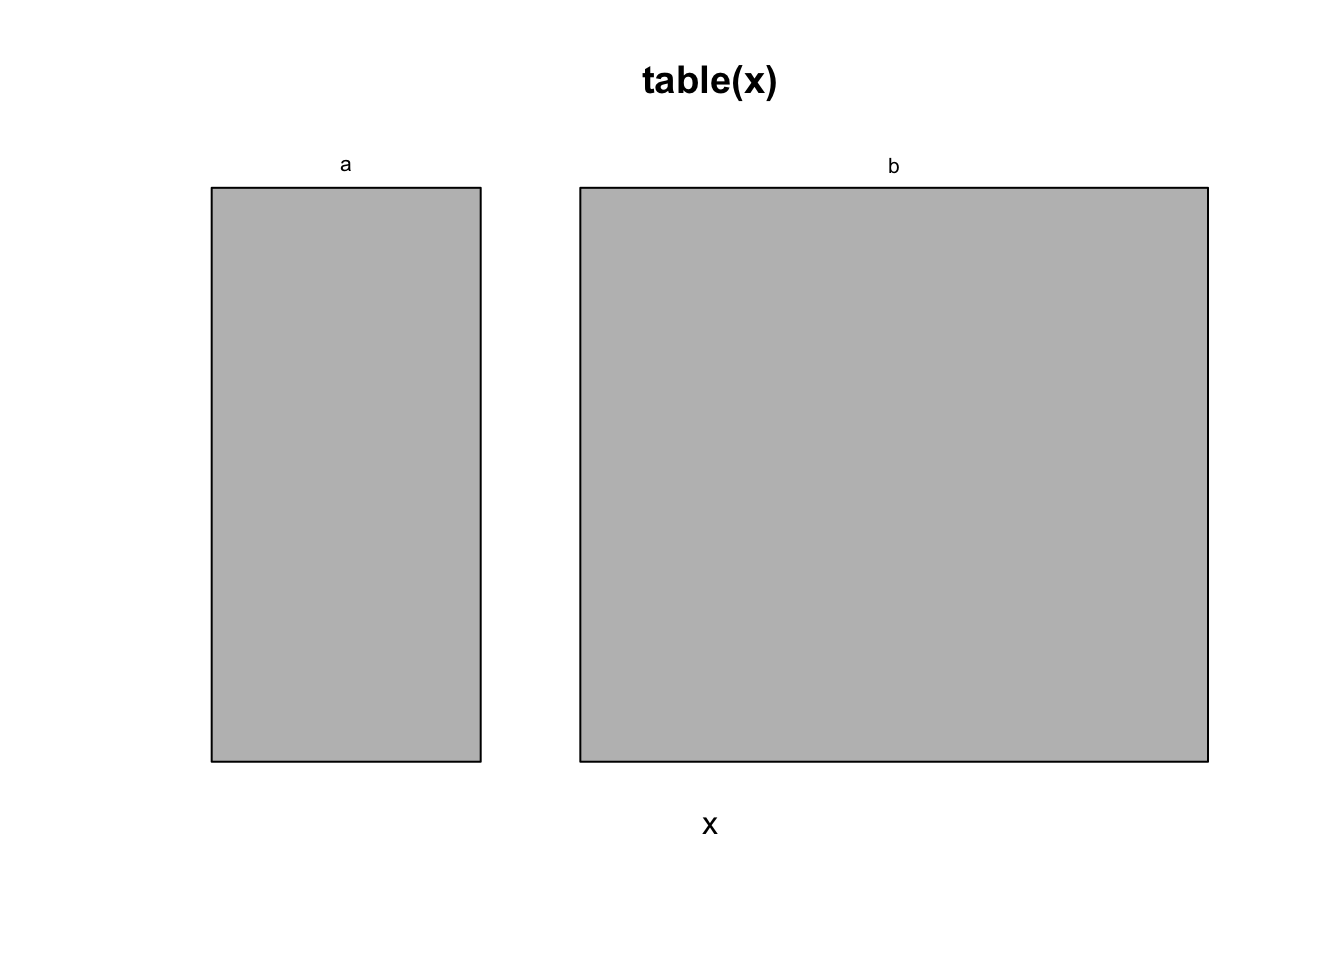
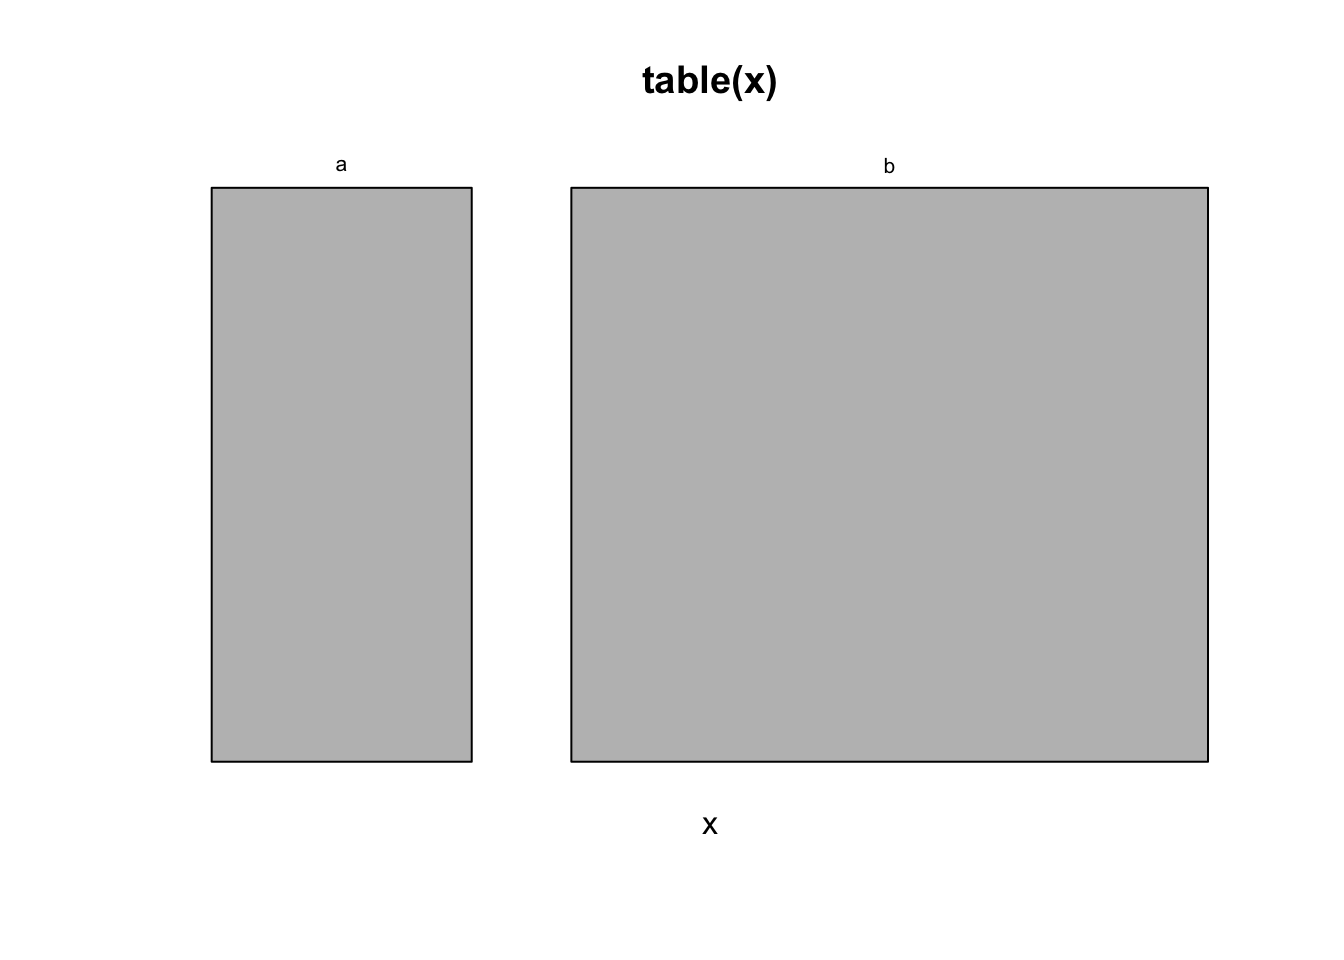
CSP2018 slides on webpage

diff --git a/docs/articles/extending_dataMaid.html b/docs/articles/extending_dataMaid.html
@@ -392,7 +392,7 @@ meanSummary.integer &lt;-<span class="st"> </span><span class="cf">function</spa
 <p>and now we can see what happens when the function is called on supported - and non-supported - variables:</p>
 <div class="sourceCode"><pre class="sourceCode r"><code class="sourceCode r"><span class="co">#called on a numeric variable (supported)</span>
 <span class="kw">meanSummary</span>(<span class="kw">rnorm</span>(<span class="dv">100</span>))</code></pre></div>
-<pre><code>## Mean: 0.1</code></pre>
+<pre><code>## Mean: 0.17</code></pre>
 <div class="sourceCode"><pre class="sourceCode r"><code class="sourceCode r"><span class="co">#called on a character variable - produces error as there is</span>
 <span class="co">#no method for characters</span>
 <span class="kw">meanSummary</span>(letters)</code></pre></div>
@@ -487,7 +487,7 @@ x &lt;-<span class="st"> </span><span class="kw">sample</span>(<span class="kw">
 }</code></pre></div>
 <p>This function can now be called directly or used in <code><a href="../reference/makeDataReport.html">makeDataReport()</a></code>, as will presented in an example below. Depending on the <code>doEval</code> argument, either a text string with code or a plot is produced. We can for instance inspect the code for the plot produced in the above by calling <code>mosaicVisual()</code> on <code>x</code> with <code>doEval = FALSE</code>:</p>
 <div class="sourceCode"><pre class="sourceCode r"><code class="sourceCode r"><span class="kw">mosaicVisual</span>(x, <span class="st">"Variable x"</span>, <span class="dt">doEval =</span> <span class="ot">FALSE</span>)</code></pre></div>
-<pre><code>## [1] "mosaicplot(structure(c(30L, 70L), .Dim = 2L, .Dimnames = structure(list("              
+<pre><code>## [1] "mosaicplot(structure(c(29L, 71L), .Dim = 2L, .Dimnames = structure(list("              
 ## [2] "    v = c(\"a\", \"b\")), .Names = \"v\"), class = \"table\"), main = \"Variable x\", "
 ## [3] "    xlab = \"\")"</code></pre>
 <p>Even though <code>mosaicVisual()</code>, as written above, follows the style of a <code>visualFunction</code>, it is not yet truly one and therefore, it will not appear in an <code><a href="../reference/allVisualFunctions.html">allVisualFunctions()</a></code> call. In order to get this functionality, we need to change its object class. This can be done by writing</p>
@@ -884,7 +884,7 @@ $(document).ready(function () {
 <h1 class="hasAnchor">
 <a href="#header" class="anchor"></a>artData</h1>
 <h3 class="subtitle"><em>Autogenerated data summary from dataMaid</em></h3>
-<h4 class="date"><em>2018-02-08 19:12:55</em></h4>
+<h4 class="date"><em>2018-02-08 19:41:22</em></h4>
 
 </div>
 
@@ -1598,7 +1598,7 @@ $(document).ready(function () {
 <p>Report generation information:</p>
 <ul>
 <li><p>Created by Claus Thorn Ekstrøm.</p></li>
-<li><p>Report creation time: Thu Feb 08 2018 19:12:55</p></li>
+<li><p>Report creation time: Thu Feb 08 2018 19:41:22</p></li>
 <li><p>dataMaid v1.1.0 [Pkg: 2018-02-06 from local (<a href="mailto:ekstroem/dataMaid@NA">ekstroem/dataMaid@NA</a>)]</p></li>
 <li><p>R version 3.4.3 (2017-11-30).</p></li>
 <li><p>Platform: x86_64-apple-darwin15.6.0 (64-bit)(macOS High Sierra 10.13.2).</p></li>

diff --git a/docs/reference/visualFunction.html b/docs/reference/visualFunction.html
@@ -209,7 +209,7 @@ if more knowledge about <code>visualFunction</code>s is required.</p>
 #&gt; </div><div class='input'>
 <span class='co'>#Create a mosaic plot:</span>
  <span class='no'>ABCvar</span> <span class='kw'>&lt;-</span> <span class='fu'>c</span>(<span class='fu'>rep</span>(<span class='st'>"a"</span>, <span class='fl'>10</span>), <span class='fu'>rep</span>(<span class='st'>"b"</span>, <span class='fl'>20</span>), <span class='fu'>rep</span>(<span class='st'>"c"</span>, <span class='fl'>5</span>))
- <span class='fu'>mosaicVisual</span>(<span class='no'>ABCvar</span>, <span class='st'>"ABCvar"</span>, <span class='fl'>TRUE</span>)</div><div class='img'><img src='visualFunction-1.png' alt='' width='700' height='432.632880098887' /></div><div class='input'>
+ <span class='fu'>mosaicVisual</span>(<span class='no'>ABCvar</span>, <span class='st'>"ABCvar"</span>, <span class='fl'>TRUE</span>)</div><div class='img'><img src='visualFunction-3.png' alt='' width='700' height='432.632880098887' /></div><div class='input'>
 <span class='co'>#Create a character string with the code for a mosaic plot:</span>
  <span class='fu'>mosaicVisual</span>(<span class='no'>ABCvar</span>, <span class='st'>"ABCVar"</span>, <span class='fl'>FALSE</span>)</div><div class='output co'>#&gt; [1] "mosaicplot(structure(c(10L, 20L, 5L), .Dim = 3L, .Dimnames = structure(list("             
 #&gt; [2] "    v = c(\"a\", \"b\", \"c\")), .Names = \"v\"), class = \"table\"), main = \"ABCVar\", "

diff --git a/docs/articles/dataMaid_artData.html b/docs/articles/dataMaid_artData.html
@@ -119,7 +119,7 @@ $(document).ready(function () {
 
 <h1 class="title toc-ignore">artData</h1>
 <h3 class="subtitle"><em>Autogenerated data summary from dataMaid</em></h3>
-<h4 class="date"><em>2018-02-08 19:12:55</em></h4>
+<h4 class="date"><em>2018-02-08 19:41:22</em></h4>
 
 </div>
 
@@ -842,7 +842,7 @@ $(document).ready(function () {
 <p>Report generation information:</p>
 <ul>
 <li><p>Created by Claus Thorn Ekstrøm.</p></li>
-<li><p>Report creation time: Thu Feb 08 2018 19:12:55</p></li>
+<li><p>Report creation time: Thu Feb 08 2018 19:41:22</p></li>
 <li><p>dataMaid v1.1.0 [Pkg: 2018-02-06 from local (<a href="mailto:ekstroem/dataMaid@NA">ekstroem/dataMaid@NA</a>)]</p></li>
 <li><p>R version 3.4.3 (2017-11-30).</p></li>
 <li><p>Platform: x86_64-apple-darwin15.6.0 (64-bit)(macOS High Sierra 10.13.2).</p></li>

diff --git a/docs/CSP2018/slides.html b/docs/CSP2018/slides.html
@@ -207,7 +207,13 @@ $(document).ready(function () {
 </div>
 
 
-
+<p>Links to slides for the four different modules can found at</p>
+<ul>
+<li><a href="slides/module1/module1.html">Module 1: Introduction and terminology</a></li>
+<li><a href="slides/module2/module2.html">Module 2: Data screening with dataMaid</a></li>
+<li><a href="slides/module3/module3.html">Module 3: Row-wise constraints</a></li>
+<li><a href="slides/module4/module4.html">Module 4: Time to clean!</a></li>
+</ul>
 
 
 
